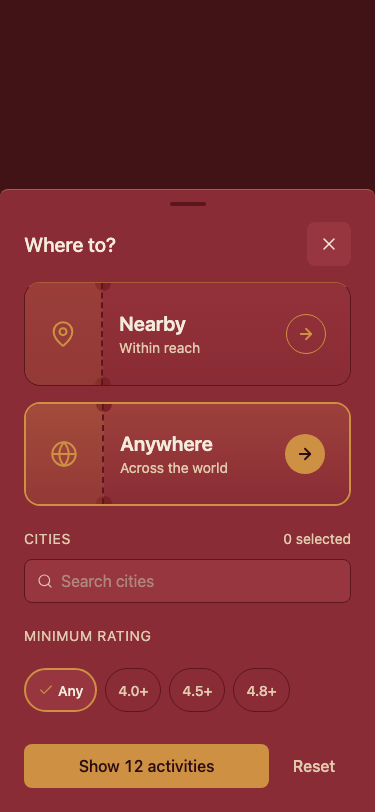
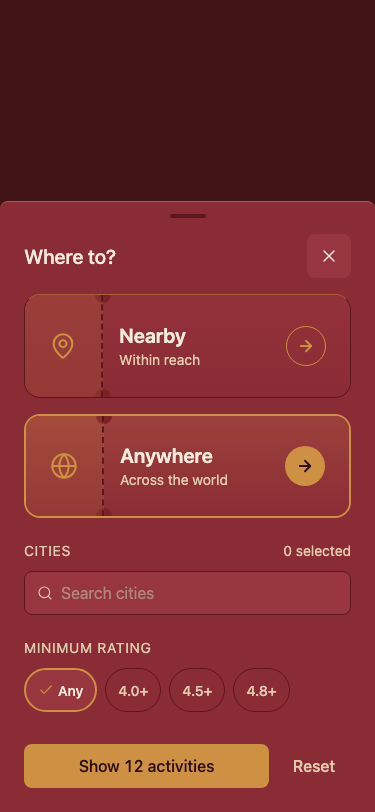
T2 resolve: clear Anywhere fields on scope switch, real unavailable pane
- selectScope() clears cities/maxDistanceKm on switch to Nearby instead of
  leaving stale Anywhere-only values under scope:'nearby' for
  onQuery/onApply to see (coordinates/minRating aren't scope-specific, kept).
- NearbyPane gets a real `unavailable` branch matching ScopePickerScreen's
  exact copy/button label instead of silently falling through to the
  not-yet-asked explainer.
- useNearbyLocation gains checkPermission() (read-only, no OS prompt) so an
  already-denied permission shows on a fresh sheet-open, not only after a
  tap.
- scopeDraft.ts declares its own MIN/MAX_DISTANCE_KM instead of importing
  from search-setup/anywhereSearch.ts, which T4 deletes.
- chipsRow/cityChipsRow split fixes Minimum rating's double top-spacing.
- Recaptured all Visual check screenshots plus 2 previously-missing states
  (city-search results panel, Nearby unavailable).

diff --git a/app/src/features/scope-sheet/ScopeSheet.tsx b/app/src/features/scope-sheet/ScopeSheet.tsx
@@ -26,6 +26,7 @@ import { Spinner } from '../../components/Spinner';
 import { useFocusable } from '../../hooks/useFocusable';
 import { colors, fontSize, radius, space } from '../../theme/tokens';
 import { NEARBY_RADIUS_KM, RATING_OPTIONS } from '../activity-list/filters';
+import type { Scope } from '../scope-picker/types';
 import { useNearbyLocation } from '../scope-picker/useNearbyLocation';
 import type { NearbyLocationState } from '../scope-picker/useNearbyLocation';
 import { DISTANCE_STEP_KM, MAX_DISTANCE_KM, MIN_DISTANCE_KM, anywhereHasAnchor, defaultScopeDraft } from './scopeDraft';
@@ -61,6 +62,10 @@ type CityFetchState = { query: string; status: 'results' | 'no-match' | 'error';
 // Category/subtype controls are deliberately absent — they move to the Feed
 // (T3), not duplicated here.
 export function ScopeSheet({ visible, initialDraft, onQuery, onApply, onClose }: ScopeSheetProps) {
+  // `draft`/`error` are seeded straight from props above (via useState's
+  // initializer) rather than reset by an effect — the caller remounts this
+  // component (keyed on open/closed, same contract as FilterSheet) every
+  // time it opens, so a fresh mount already means a fresh draft.
   const [draft, setDraft] = useState<ScopeDraft>(initialDraft);
   const [count, setCount] = useState<number | null>(null);
   const [applying, setApplying] = useState(false);
@@ -139,6 +144,27 @@ export function ScopeSheet({ visible, initialDraft, onQuery, onApply, onClose }:
     return () => clearTimeout(timer);
   }, [cityQuery, draft.cities]);
 
+  // scopeDraft.ts's `cities`/`maxDistanceKm` comments claim "always empty"/
+  // "permanent null" for nearby — switching to nearby has to actually
+  // enforce that, not just leave stale Anywhere-only values sitting under
+  // `scope: 'nearby'` for onQuery/onApply to see. `coordinates`/`minRating`
+  // aren't scope-specific (a device anchor and a rating floor both still
+  // apply either way), so those carry over untouched.
+  function selectScope(scope: Scope) {
+    setDraft((prev) => (scope === 'nearby' ? { ...prev, scope, cities: [], maxDistanceKm: null } : { ...prev, scope }));
+  }
+
+  // Read-only permission check on entering the Nearby pane with no anchor
+  // yet — detects an already-denied permission on a fresh mount without
+  // requiring the "Turn on location" tap first (that tap is still what
+  // triggers an actual OS prompt for an undetermined user; this never does).
+  useEffect(() => {
+    if (visible && draft.scope === 'nearby' && !draft.coordinates) {
+      nearby.checkPermission();
+    }
+    // eslint-disable-next-line react-hooks/exhaustive-deps -- nearby.checkPermission's identity is stable (useCallback with no deps); re-run only when the pane becomes relevant again
+  }, [visible, draft.scope, draft.coordinates]);
+
   function selectCity(city: CitySuggestion) {
     setDraft((prev) => ({ ...prev, cities: [...prev.cities, city] }));
     setCityQuery('');
@@ -216,7 +242,7 @@ export function ScopeSheet({ visible, initialDraft, onQuery, onApply, onClose }:
                 hint="Within reach"
                 selected={draft.scope === 'nearby'}
                 accessibilityLabel="Scope: Nearby"
-                onPress={() => setDraft((prev) => ({ ...prev, scope: 'nearby' }))}
+                onPress={() => selectScope('nearby')}
               />
               <ScopeTicket
                 icon={Globe}
@@ -224,7 +250,7 @@ export function ScopeSheet({ visible, initialDraft, onQuery, onApply, onClose }:
                 hint="Across the world"
                 selected={draft.scope === 'anywhere'}
                 accessibilityLabel="Scope: Anywhere"
-                onPress={() => setDraft((prev) => ({ ...prev, scope: 'anywhere' }))}
+                onPress={() => selectScope('anywhere')}
               />
             </View>
 
@@ -329,12 +355,11 @@ type NearbyPaneProps = {
 
 // design-spec.md T2's three Nearby panes: granted / not-yet-asked / denied.
 // `coordinates` present is the "granted" signal (either resolved by this
-// sheet or handed in already-anchored by the caller).
-// ponytail: `unavailable` (GPS fix failed after permission was already
-// granted) folds into this same explainer+button rather than a fourth pane
-// — the spec asks for three, and retrying via the same button is the same
-// affordance ScopePickerScreen already offers for this exact case. Add a
-// distinct copy/pane if a future spec calls one out.
+// sheet or handed in already-anchored by the caller). `unavailable` (GPS fix
+// failed after permission was already granted) gets its own branch below,
+// matching ScopePickerScreen's exact copy for this same case, rather than
+// silently falling through to the neutral not-yet-asked explainer with no
+// feedback at all.
 function NearbyPane({ coordinates, nearbyState, onTurnOnLocation }: NearbyPaneProps) {
   const busy = nearbyState.status === 'requesting-permission' || nearbyState.status === 'locating';
   const buttonFocus = useFocusable();
@@ -376,6 +401,24 @@ function NearbyPane({ coordinates, nearbyState, onTurnOnLocation }: NearbyPanePr
           style={[styles.secondaryButton, buttonFocus.focused && styles.secondaryButtonFocused]}
         >
           <Text style={styles.secondaryButtonLabel}>Open settings</Text>
+        </Pressable>
+      </View>
+    );
+  }
+
+  if (nearbyState.status === 'unavailable') {
+    return (
+      <View style={styles.section}>
+        <Text style={styles.paneText}>We couldn&apos;t get your current location. Try again, or choose Anywhere instead.</Text>
+        <Pressable
+          onPress={onTurnOnLocation}
+          onFocus={buttonFocus.onFocus}
+          onBlur={buttonFocus.onBlur}
+          accessibilityRole="button"
+          accessibilityLabel="Try again"
+          style={[styles.secondaryButton, buttonFocus.focused && styles.secondaryButtonFocused]}
+        >
+          <Text style={styles.secondaryButtonLabel}>Try again</Text>
         </Pressable>
       </View>
     );
@@ -487,7 +530,7 @@ function AnywherePane({
         )}
 
         {draft.cities.length > 0 && (
-          <View style={styles.chipsRow}>
+          <View style={styles.cityChipsRow}>
             {draft.cities.map((city) => (
               <FilterChip key={cityKey(city)} variant="remove" label={`${city.city}, ${city.country}`} onPress={() => onRemoveCity(city)} />
             ))}
@@ -793,7 +836,17 @@ const styles = StyleSheet.create({
     fontSize: fontSize.sm,
     color: colors.error,
   },
+  // FilterGroup's own `group` style already supplies the label->chips gap
+  // (space[3]) — no marginTop here, or it stacks on top of that gap (was
+  // 24px total on Minimum rating vs FilterSheet's 12px for the identical
+  // group). The city-chips row below isn't inside a `group`-gapped
+  // container, so it keeps its own top margin via cityChipsRow instead.
   chipsRow: {
+    flexDirection: 'row',
+    flexWrap: 'wrap',
+    gap: space[2],
+  },
+  cityChipsRow: {
     flexDirection: 'row',
     flexWrap: 'wrap',
     gap: space[2],

diff --git a/app/src/features/scope-sheet/ScopeSheet.test.tsx b/app/src/features/scope-sheet/ScopeSheet.test.tsx
@@ -75,9 +75,30 @@ describe('ScopeSheet', () => {
       expect(screen.queryByRole('button', { name: /turn on location/i })).toBeNull();
     });
 
-    it('shows the Open settings pane when permission is already denied', async () => {
+    it('shows the Open settings pane on a fresh mount when permission is already denied (no tap needed)', async () => {
       mockedLocation.getForegroundPermissionsAsync.mockResolvedValue({ status: 'denied' } as never);
       const openSettings = jest.spyOn(Linking, 'openSettings').mockImplementation(() => Promise.resolve());
+
+      render(
+        <ScopeSheet
+          visible
+          initialDraft={defaultScopeDraft('nearby')}
+          onQuery={jest.fn().mockResolvedValue({ status: 'success', activities: [] })}
+          onApply={jest.fn()}
+          onClose={jest.fn()}
+        />
+      );
+      await flush();
+
+      expect(screen.getByText(/use anywhere instead/i)).toBeTruthy();
+      const settingsButton = screen.getByRole('button', { name: 'Open settings' });
+      fireEvent.press(settingsButton);
+      expect(openSettings).toHaveBeenCalledTimes(1);
+    });
+
+    it('shows the "Try again" pane, matching ScopePickerScreen\'s copy, when the GPS fix fails after permission is granted', async () => {
+      mockedLocation.getForegroundPermissionsAsync.mockResolvedValue({ status: 'granted' } as never);
+      mockedLocation.getCurrentPositionAsync.mockRejectedValue(new Error('timeout'));
 
       render(
         <ScopeSheet
@@ -94,10 +115,53 @@ describe('ScopeSheet', () => {
         fireEvent.press(screen.getByRole('button', { name: 'Turn on location' }));
       });
 
-      expect(screen.getByText(/use anywhere instead/i)).toBeTruthy();
-      const settingsButton = screen.getByRole('button', { name: 'Open settings' });
-      fireEvent.press(settingsButton);
-      expect(openSettings).toHaveBeenCalledTimes(1);
+      expect(screen.getByText("We couldn't get your current location. Try again, or choose Anywhere instead.")).toBeTruthy();
+      expect(screen.getByRole('button', { name: 'Try again' })).toBeTruthy();
+    });
+  });
+
+  describe('Scope switch', () => {
+    it('clears Anywhere-only fields (cities/max distance) when switching back to Nearby, keeping minRating', async () => {
+      mockedLocation.getForegroundPermissionsAsync.mockResolvedValue({ status: 'undetermined' } as never);
+      mockedSuggest.mockResolvedValue({
+        status: 'success',
+        suggestions: [{ city: 'Lisbon', country: 'Portugal', centroid: { lat: 38.7, lng: -9.1 } }],
+      });
+      render(
+        <ScopeSheet
+          visible
+          initialDraft={defaultScopeDraft('nearby')}
+          onQuery={jest.fn().mockResolvedValue({ status: 'success', activities: activities(1) })}
+          onApply={jest.fn()}
+          onClose={jest.fn()}
+        />
+      );
+      await flush();
+
+      await act(async () => {
+        fireEvent.press(screen.getByRole('button', { name: 'Scope: Anywhere' }));
+      });
+      fireEvent.changeText(screen.getByLabelText('Search cities'), 'Lis');
+      await waitFor(() => expect(screen.getByRole('button', { name: 'Lisbon, Portugal' })).toBeTruthy());
+      await act(async () => {
+        fireEvent.press(screen.getByRole('button', { name: 'Lisbon, Portugal' }));
+      });
+      await act(async () => {
+        fireEvent.press(screen.getByRole('button', { name: '4.5+' }));
+      });
+      expect(screen.getByText('1 selected')).toBeTruthy();
+
+      await act(async () => {
+        fireEvent.press(screen.getByRole('button', { name: 'Scope: Nearby' }));
+      });
+      await act(async () => {
+        fireEvent.press(screen.getByRole('button', { name: 'Scope: Anywhere' }));
+      });
+
+      // City cleared by the round trip through Nearby...
+      expect(screen.getByText('0 selected')).toBeTruthy();
+      // ...minRating (not scope-specific) survives it.
+      expect(screen.getByRole('button', { name: '4.5+, selected' })).toBeTruthy();
     });
   });
 

diff --git a/app/src/features/scope-picker/useNearbyLocation.ts b/app/src/features/scope-picker/useNearbyLocation.ts
@@ -14,6 +14,14 @@ type UseNearbyLocation = {
   state: NearbyLocationState;
   /** Runs the permission + GPS-fix flow; resolves with coordinates on success, null otherwise. */
   requestLocation: () => Promise<Coordinates | null>;
+  /**
+   * Read-only status check — no OS permission prompt, no GPS fetch. Lets a
+   * caller detect an already-denied permission on mount/open (e.g. the Scope
+   * sheet's Nearby pane) without requestLocation's "Turn on location" tap,
+   * which would OS-prompt an undetermined user just by checking. Leaves
+   * `state` alone unless already denied.
+   */
+  checkPermission: () => Promise<void>;
 };
 
 // Encapsulates a scope ticket's async location flow (permission check →
@@ -24,6 +32,15 @@ type UseNearbyLocation = {
 // two (Nearby blocks with an error, Anywhere never does).
 export function useNearbyLocation(): UseNearbyLocation {
   const [state, setState] = useState<NearbyLocationState>({ status: 'idle' });
+
+  // Shares requestLocation's first check (below) but stops there — no
+  // request prompt, no GPS fetch — so it's safe to call passively on mount.
+  const checkPermission = useCallback(async (): Promise<void> => {
+    const current = await Location.getForegroundPermissionsAsync();
+    if (current.status === Location.PermissionStatus.DENIED) {
+      setState({ status: 'denied' });
+    }
+  }, []);
 
   const requestLocation = useCallback(async (): Promise<Coordinates | null> => {
     // Check current status first: if already denied, no OS prompt will
@@ -55,5 +72,5 @@ export function useNearbyLocation(): UseNearbyLocation {
     }
   }, []);
 
-  return { state, requestLocation };
+  return { state, requestLocation, checkPermission };
 }

diff --git a/app/src/features/scope-sheet/scopeDraft.ts b/app/src/features/scope-sheet/scopeDraft.ts
@@ -1,15 +1,16 @@
 import type { CitySuggestion } from '../../api/cities';
 import type { RatingOption } from '../activity-list/types';
 import type { Coordinates, Scope } from '../scope-picker/types';
-import { MAX_DISTANCE_KM, MIN_DISTANCE_KM } from '../search-setup/anywhereSearch';
 
-// design-spec.md T2: the app's one remaining Anywhere distance range —
-// reuses AnywhereSearchScreen's existing 5-500km constants rather than
-// declaring a second copy. FilterSheet's separate 100-2000km range stays
-// where it is (that file isn't touched here — T4 deletes it once T3/T4
-// land, per product-tasks.md's explicit out-of-scope note for this task).
-export { MIN_DISTANCE_KM, MAX_DISTANCE_KM };
-
+// design-spec.md T2: the app's one remaining Anywhere distance range — this
+// sheet's own canonical copy, not imported from `search-setup/anywhereSearch`
+// (T4 deletes that whole folder once T3/T4 land; importing from a file
+// scheduled for deletion would take the sheet's range down with it). Values
+// currently match that file's identical MIN_DISTANCE_KM/MAX_DISTANCE_KM by
+// design (Decision 5's single canonical range) — T4's retirement pass is the
+// point where the app is left with exactly one copy instead of two.
+export const MIN_DISTANCE_KM = 5;
+export const MAX_DISTANCE_KM = 500;
 // Reuses AnywhereSearchScreen's existing step convention (Slider step={5}).
 export const DISTANCE_STEP_KM = 5;
 

diff --git a/app/src/features/scope-picker/useNearbyLocation.test.ts b/app/src/features/scope-picker/useNearbyLocation.test.ts
@@ -77,4 +77,31 @@ describe('useNearbyLocation', () => {
     expect(result.current.state).toEqual({ status: 'unavailable' });
     jest.useRealTimers();
   });
+
+  describe('checkPermission', () => {
+    it('flips state to denied when already denied, with no request/GPS call', async () => {
+      mockedLocation.getForegroundPermissionsAsync.mockResolvedValue({ status: 'denied' } as never);
+
+      const { result } = renderHook(() => useNearbyLocation());
+      await act(async () => {
+        await result.current.checkPermission();
+      });
+
+      expect(result.current.state).toEqual({ status: 'denied' });
+      expect(mockedLocation.requestForegroundPermissionsAsync).not.toHaveBeenCalled();
+      expect(mockedLocation.getCurrentPositionAsync).not.toHaveBeenCalled();
+    });
+
+    it('leaves state alone (no OS prompt) when granted or undetermined', async () => {
+      mockedLocation.getForegroundPermissionsAsync.mockResolvedValue({ status: 'undetermined' } as never);
+
+      const { result } = renderHook(() => useNearbyLocation());
+      await act(async () => {
+        await result.current.checkPermission();
+      });
+
+      expect(result.current.state).toEqual({ status: 'idle' });
+      expect(mockedLocation.requestForegroundPermissionsAsync).not.toHaveBeenCalled();
+    });
+  });
 });
